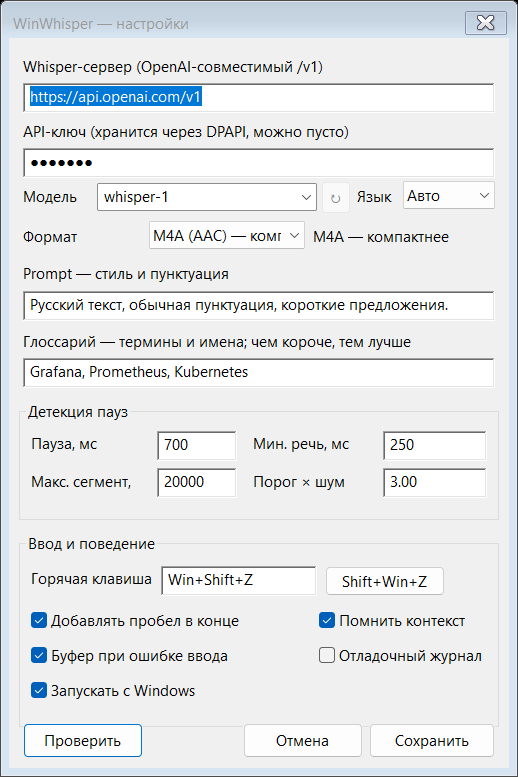
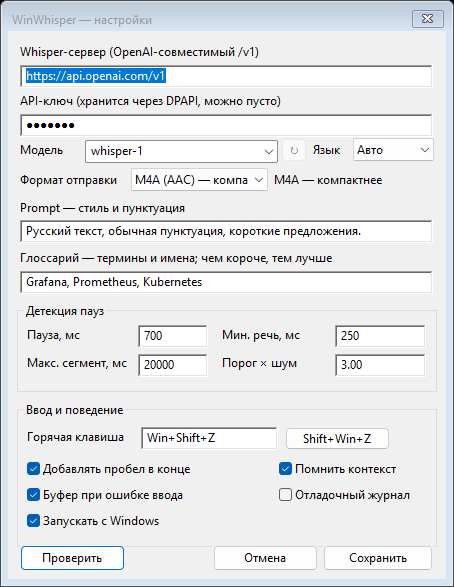
1.1.9: скришоты в README 1:1, без увеличения
Диалог настроек рендерился при масштабе экрана: на 125% картинка выходила
518×777, то есть на четверть больше настоящего размера окна. Для снимка теперь
принудительно выставляется DPI-контекст потока UNAWARE, поэтому диалог
рисуется при 96 dpi — 454×587, ровно столько, сколько он занимает при 100%.
Панель и так 1:1 (158×84). В README у обеих картинок нет width, ничего не
растягивается.

Заодно это убирает вчерашнюю путаницу с размерами: 454×587 и 518×777 были не
разными экранами, а разным DPI-контекстом потока, создававшего диалог.

diff --git a/src/app.cpp b/src/app.cpp
@@ -48,7 +48,7 @@ constexpr UINT_PTR TIMER_UI = 1;
 
 // The version in one place for the log; the resource script and the manifest
 // carry the same number for the file properties Windows shows.
-constexpr wchar_t kVersion[] = L"1.1.8";
+constexpr wchar_t kVersion[] = L"1.1.9";
 
 // How long an error stays on screen before the panel disappears again.
 constexpr int kErrorTicks = 90;  // ~3 s at 33 ms
@@ -927,6 +927,12 @@ int RunSettingsShot(const CStringW& path, bool neutral)
     } else {
         settings.Load();
     }
+
+    // Render at 100% whatever this machine's display scaling is. The dialog is
+    // laid out in dialog units, so a 125% desktop would otherwise produce an
+    // image 25% larger than the dialog really is - and the README has no business
+    // showing an enlarged screenshot.
+    ::SetThreadDpiAwarenessContext(DPI_AWARENESS_CONTEXT_UNAWARE);
 
     CSettingsDialog dialog(settings, nullptr);
     if (!dialog.Create(IDD_SETTINGS, nullptr)) {
